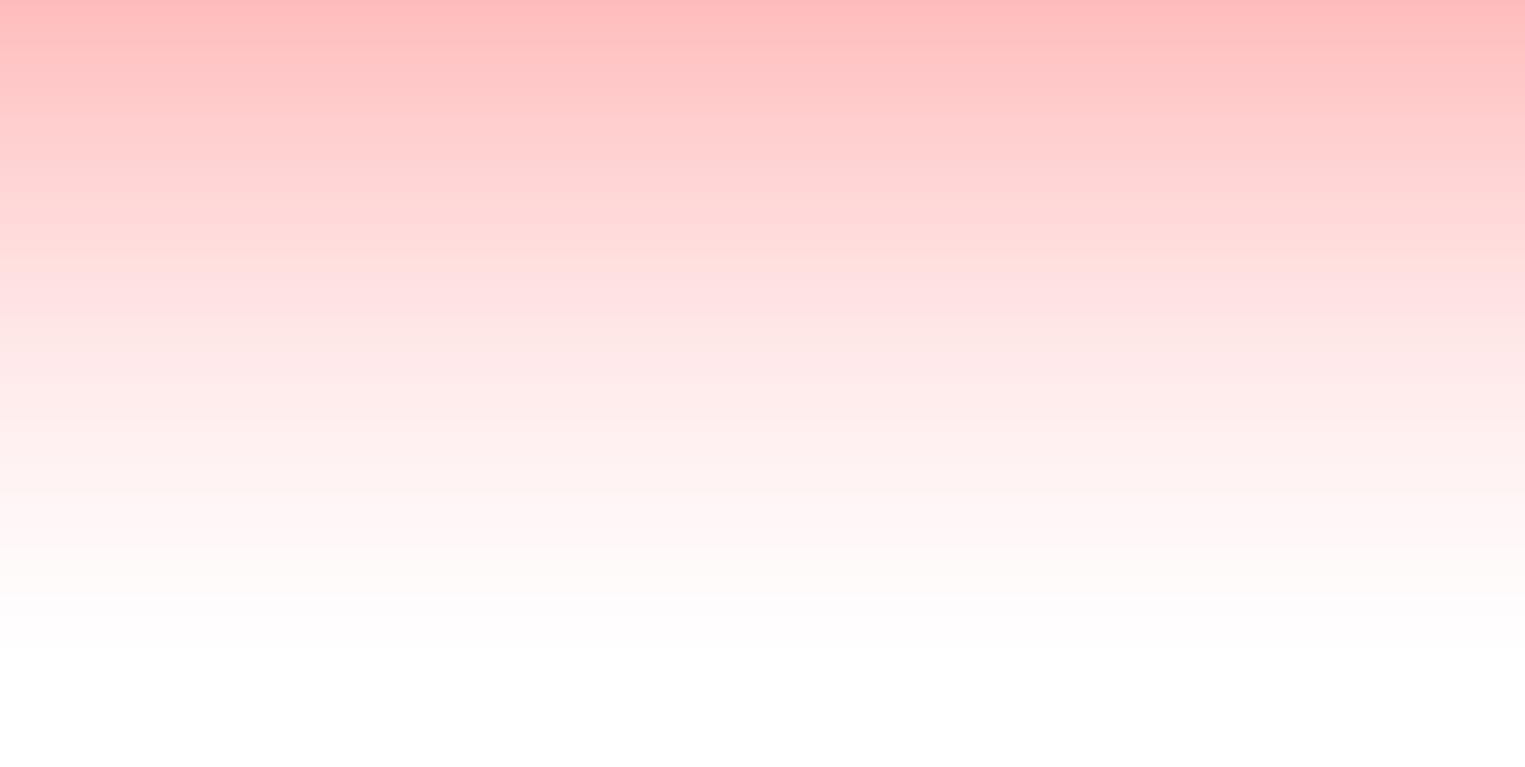
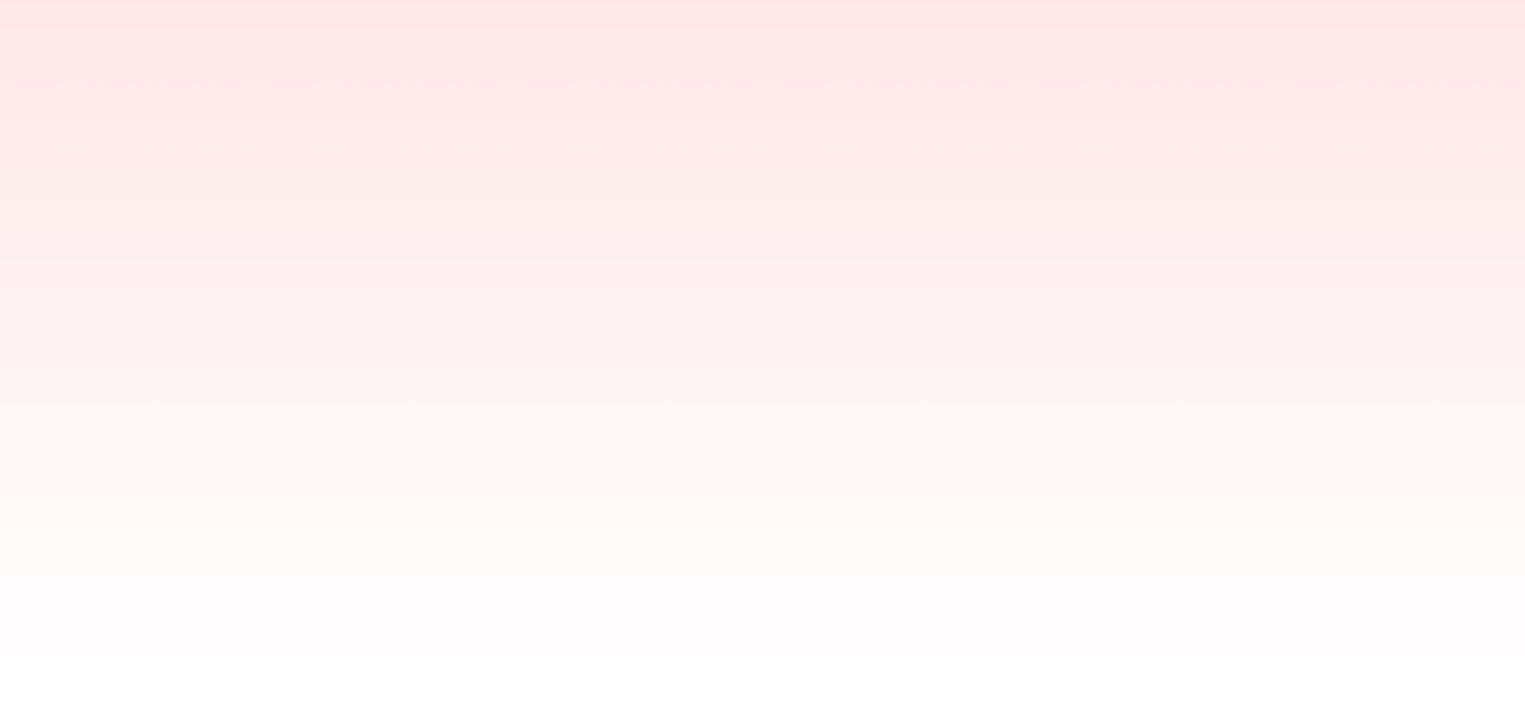
d

Changed region(s): [[0.0, 0.0, 1.0, 0.2479]]

diff --git a/detalle.HTML b/detalle.HTML
@@ -132,7 +132,7 @@
                         <h2>BOX <b>Chin Chin maestro.</b></h2>
                         <p>Te garantizamos que con este plan vas a crear un escenario perfecto para cada uno de tus invitados.</p>
                         <p><b>$20.000 por suscripción de 12 meses.</b></p>
-                        <a class="btn-solid-reg popup-with-move-anim" href="">Suscribirse al plan</a> 
+                        <a class="btn-solid-reg popup-with-move-anim" href="">Suscribite al plan</a> 
                     </div> <!-- end of text-container -->
                 </div> <!-- end of col -->
             </div> <!-- end of row -->
@@ -413,7 +413,7 @@
                         <div class="card-body">
                             <div class="image-container">
                                 <img class="img-fluid" src="images/caja 2.png" alt="alternative">
-                            <div class="card-title">Brindis intermedio</div>
+                            <div class="card-title">Brindis medio</div>
                             <div class="card-subtitle">Para el organizador promedio.</div>
                             <hr class="cell-divide-hr">
                             <div class="price">

diff --git a/index.html b/index.html
@@ -452,7 +452,7 @@
                         <div class="card-body">
                             <div class="image-container">
                                 <img class="img-fluid" src="images/caja 2.png" alt="alternative">
-                            <div class="card-title">Brindis intermedio</div>
+                            <div class="card-title">Brindis medio</div>
                             <div class="card-subtitle">Para el organizador promedio.</div>
                             <hr class="cell-divide-hr">
                             <div class="price">
@@ -667,7 +667,7 @@
         <div class="row">
             <div class="col-lg-6">
                 <div class="text-container">
-                    <h2>Nuestro <b>equipo</b></h2>
+                    <h2>Nuestro <b>equipo.</b></h2>
                     Somos un grupo de Bartenders de CABA que </p>empezó cuando nuestro cerebro maestro, Pablo </p>Zitarosa dijo: “Vamos a enseñarle a la gente cómo<p></p> funciona la coctelería". Y creamos <b>Bartender Club</b>. </p>
                    
                    <!--

diff --git a/detalle.css b/detalle.css
@@ -13,7 +13,7 @@ h2 {
 	padding-top: 6rem;
 	padding-bottom: 1.625rem;
 	text-align: center;
-    background-color: #ffc8c8;
+    background-color: #FFD9D9;
     
 	background-image:  url('../images/fondo\ detalles.jpg'); 
 	background-repeat: no-repeat;
@@ -105,9 +105,9 @@ margin-top: 0rem;
 	
 		/* Details 2 */
 		.basic-2 .text-container {
-			margin-top: 5.375rem;
+			margin-top: 2.375rem;
 			margin-right: 0rem;
-			margin-left: 12rem;
+			margin-left: 4rem;
 		}
 
 		.basic-2 h2 {
@@ -118,6 +118,7 @@ margin-top: 0rem;
 .basic-2 {
 	padding-top: 2.4rem;
 	padding-bottom: 6rem;
+	padding: 10rem;
 	background-image: url("images/fondo\ primera\ seccion\ detalle.jpg");
 	background-repeat: no-repeat;
 	
